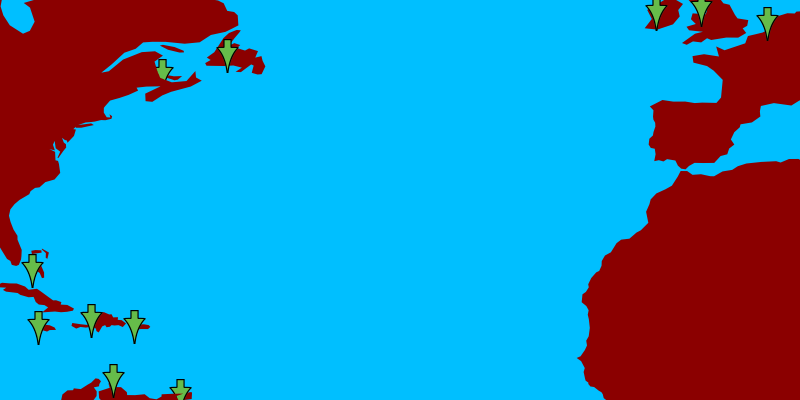
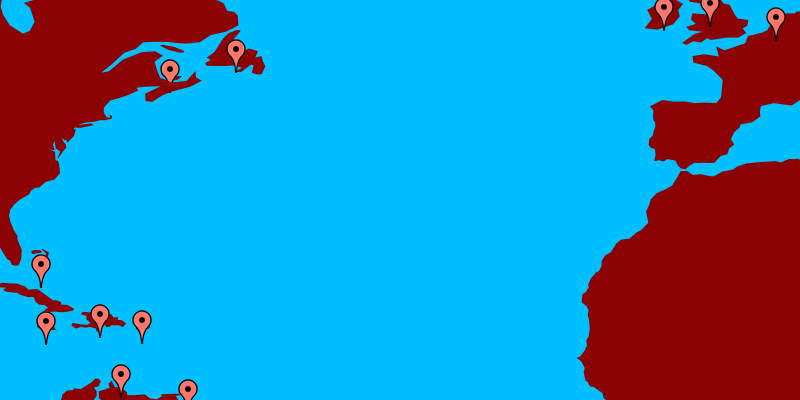
laatste deel William

diff --git a/main.py b/main.py
@@ -111,7 +111,7 @@ ds.Destroy()
 
 
 #file with symbol for point
-file_symbol=os.path.join("ProjectSource","marker2.png")
+file_symbol=os.path.join("ProjectSource","marker.png")
 
 #First we create a map
 map = mapnik.Map(800, 400) #This is the image final image size
